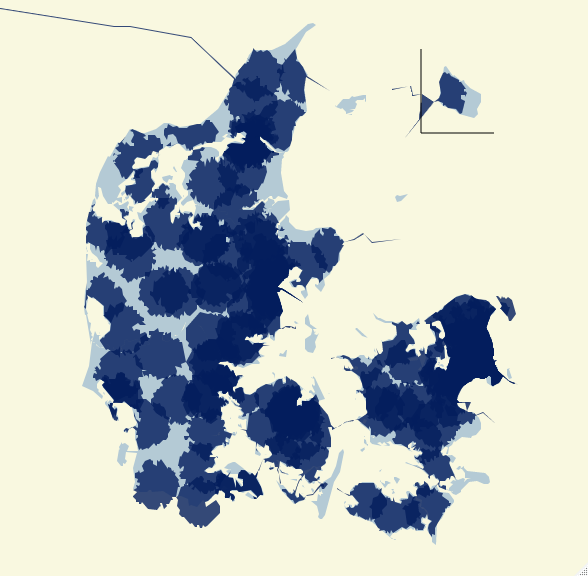
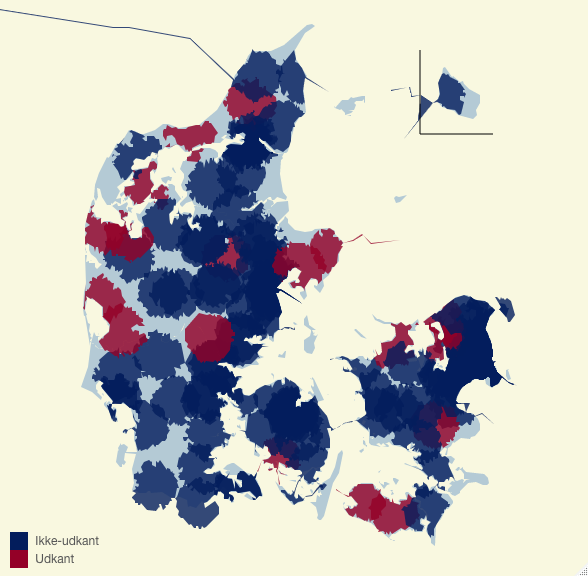
Add color functinality to fmisokort

diff --git a/README.md b/README.md
@@ -113,7 +113,7 @@ isokronerne.
 
 ``` r
 load("man/examples/gymnasier.Rda")
-map20 <- fmkort::fmisokort(data = gymnasier, lat = 'lat', lon = 'lon', profile = 'driving-car', range = 20, quota = 50, api_key = api_key)
+map20 <- fmkort::fmisokort(data = gymnasier, lat = 'lat', lon = 'lon', color = 'udkant', profile = 'driving-car', range = 20, quota = 50, api_key = api_key)
 ```
 
 ![](man/examples/README-fig5-1.png)
